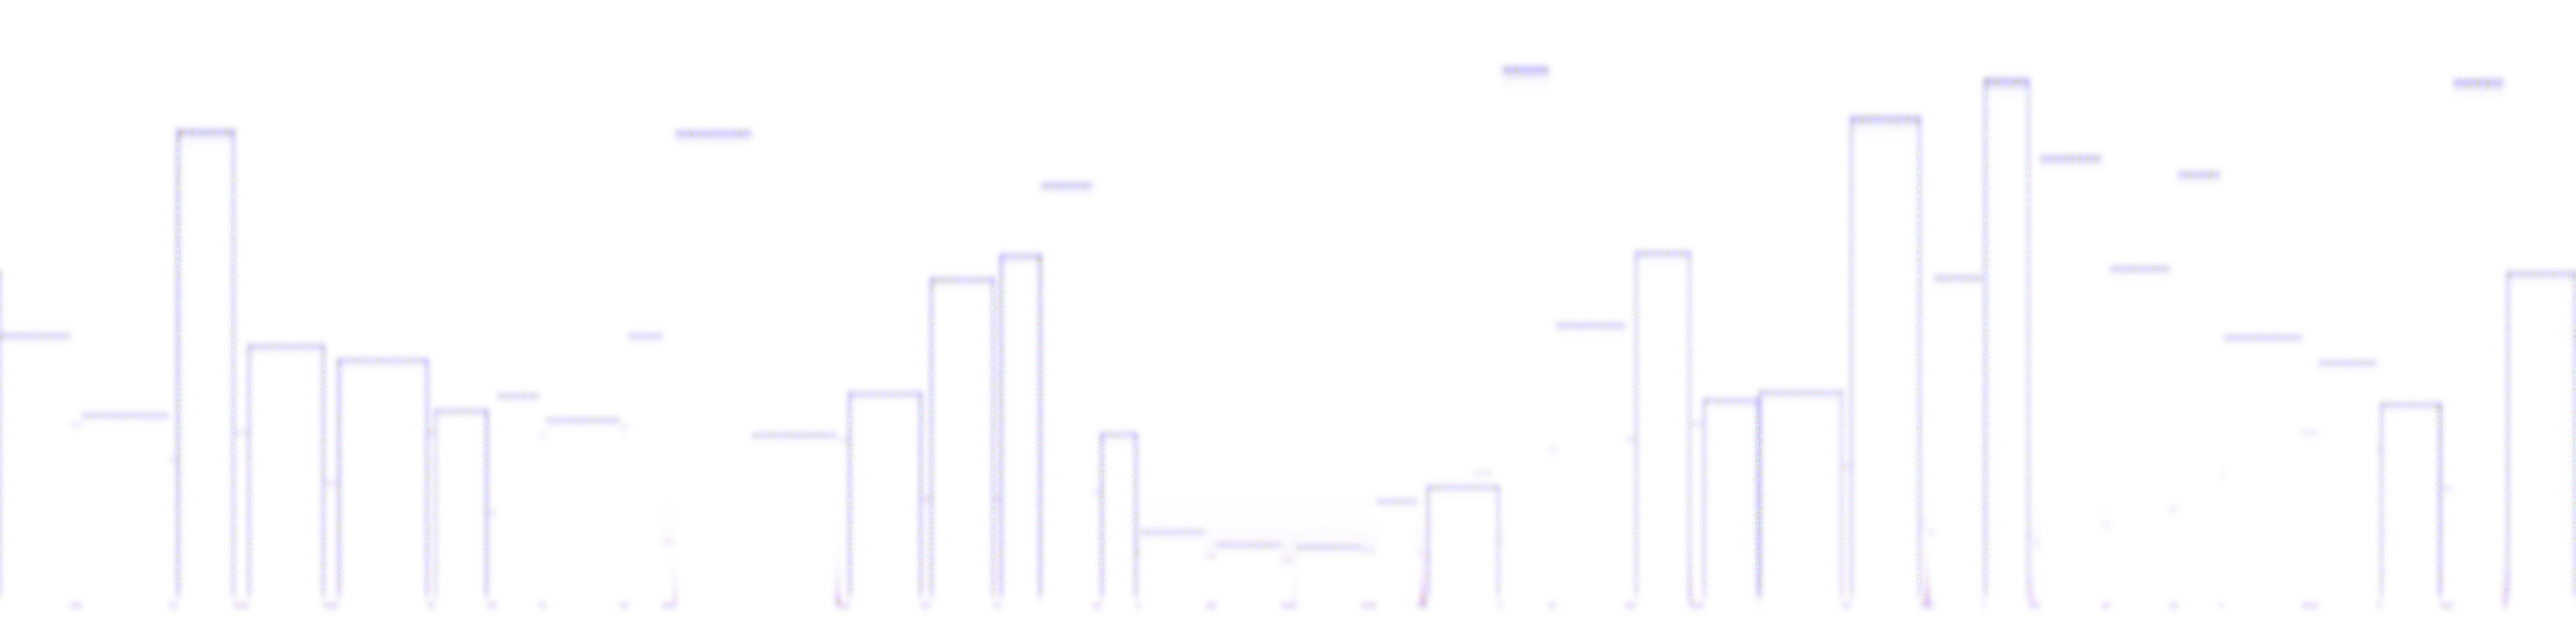
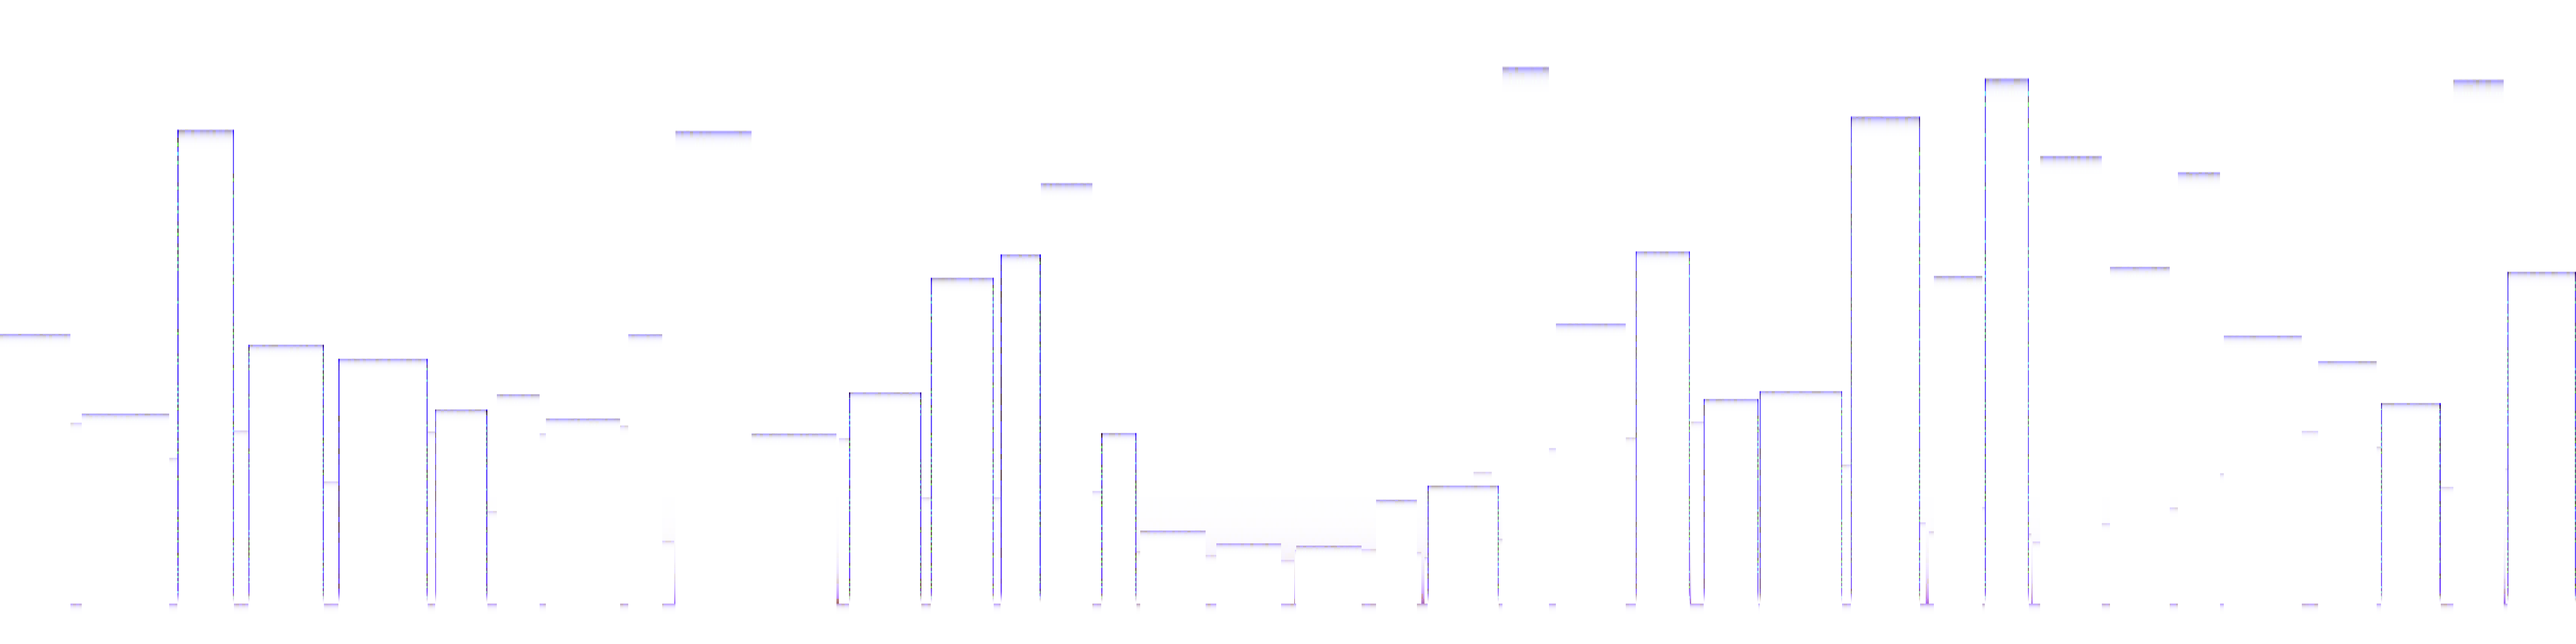
Night City sky: blur only the towers' shapes, keep rims and strips sharp
Owner's pick (2026-10-30): the red roof rims and strips stay crisp lines;
only the skyline's silhouettes soften (EDGE_BLUR on the haze mask).

diff --git a/tools/bake_night_city_sky.py b/tools/bake_night_city_sky.py
@@ -59,7 +59,7 @@ BAND_SHARPNESS = 10.0
 BAND_STRENGTH = 0.15
 CENTRE_GLOW = 0.35  # glow over the city straight ahead
 CENTRE_WIDTH = 0.35
-# the towers' outlines and rims blurred over this much (radians, a Gaussian's sigma), as far things soften in the air;
+# the towers' outlines blurred over this much (radians, a Gaussian's sigma), as far things soften in the air;
 # the same width as the landmark's and the towers' soft edges (EnvSolid.gdshaderinc SHELL_BLUR_ANGLE). Untuned.
 EDGE_BLUR = 0.007
 
@@ -153,9 +153,9 @@ def masks(width, height):
     rim += STREET_GLOW * np.exp(-np.maximum(y, 0.0) * STREET_SHARPNESS) * open_sky
     band = BAND_STRENGTH * np.exp(-np.abs(y - BAND_ELEVATION) * BAND_SHARPNESS) * open_sky
     glow = CENTRE_GLOW * np.exp(-np.abs(az) / CENTRE_WIDTH) * np.exp(-np.maximum(y, 0.0) * 6.0) * open_sky
-    # the outlines and rims soft (the windows stay sharp: lights, inset from the edges)
+    # the outlines soft; the rims, strips and windows stay sharp (owner, 2026-10-30: blur only the towers' shapes)
     sigma = (EDGE_BLUR / (2 * np.pi / width), EDGE_BLUR / (np.pi * (V_BOTTOM - V_TOP) / height))
-    haze, rim = blur(haze, *sigma), blur(rim, *sigma)
+    haze = blur(haze, *sigma)
     return dict(haze=haze, lit=lit, rand=rand, rim=rim, band=band, glow=glow)
 
 
